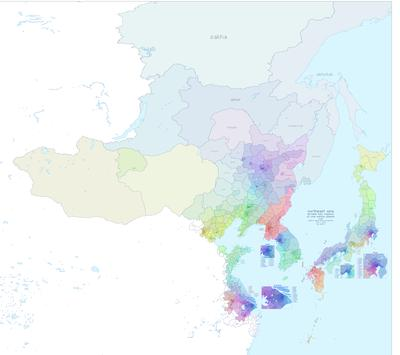
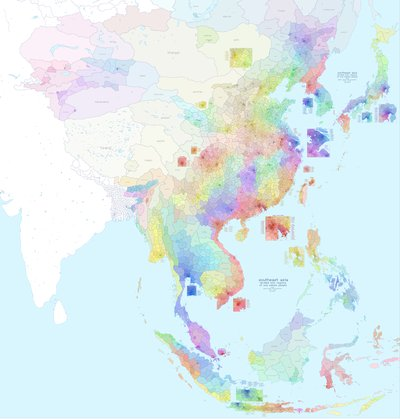
meow

diff --git a/.vscode/permalinks/extension.js b/.vscode/permalinks/extension.js
@@ -1,0 +1,119 @@
+// Suggests page URLs after `](/` or `href="/`, and underlines internal links
+// that don't go to any page. Pages are found by their `permalink:` front matter.
+const vscode = require('vscode');
+const fs = require('fs');
+const path = require('path');
+
+const FRONT_MATTER = /^---\r?\n([\s\S]*?)\r?\n---/;
+const LINK = /\]\(([^)\s]+)[^)]*\)|href=["']([^"']+)["']/g;
+const SKIP = '{**/_*/**,**/.*/**,**/node_modules/**,**/vendor/**}';
+
+let pages = new Map(); // url -> { title, file }
+let diagnostics;
+
+function frontMatter(text) {
+  const m = FRONT_MATTER.exec(text);
+  if (!m) return {};
+  const get = key => {
+    const r = new RegExp('^' + key + ':\\s*(.+)$', 'm').exec(m[1]);
+    return r ? r[1].trim().replace(/^["']|["']$/g, '') : undefined;
+  };
+  return { permalink: get('permalink'), title: get('title') };
+}
+
+function normalise(url) {
+  url = url.split('#')[0].split('?')[0];
+  if (url.endsWith('.html')) url = url.slice(0, -5);
+  if (url.endsWith('/index')) url = url.slice(0, -5);
+  return url.endsWith('/') ? url : url + '/';
+}
+
+function root() {
+  const folder = vscode.workspace.workspaceFolders && vscode.workspace.workspaceFolders[0];
+  return folder ? folder.uri.fsPath : undefined;
+}
+
+async function scan() {
+  const found = new Map();
+  const files = await vscode.workspace.findFiles('**/*.{md,html}', SKIP);
+  for (const uri of files) {
+    let text;
+    try { text = fs.readFileSync(uri.fsPath, 'utf8'); } catch { continue; }
+    const fm = frontMatter(text);
+    const rel = path.relative(root(), uri.fsPath).split(path.sep).join('/');
+    let url = fm.permalink;
+    if (!url && rel.endsWith('.html')) url = '/' + rel;
+    if (!url) continue;
+    found.set(normalise(url), { title: fm.title || rel, file: rel });
+  }
+  pages = found;
+  vscode.workspace.textDocuments.forEach(check);
+}
+
+// A link is fine if a page has that permalink, or a real file sits at that path.
+function exists(url) {
+  if (pages.has(normalise(url))) return true;
+  const clean = decodeURIComponent(url.split('#')[0].split('?')[0]);
+  const onDisk = path.join(root(), clean);
+  return fs.existsSync(onDisk) && (!fs.statSync(onDisk).isDirectory() || fs.existsSync(path.join(onDisk, 'index.html')));
+}
+
+function check(doc) {
+  // Only markdown: html pages carry scripts whose strings look like links.
+  if (doc.languageId !== 'markdown' || !root()) return;
+  const text = doc.getText();
+  const own = frontMatter(text).permalink;
+  const found = [];
+  for (const m of text.matchAll(LINK)) {
+    const target = m[1] || m[2];
+    if (/^([a-z]+:|#|\{)/i.test(target)) continue;
+    const absolute = target.startsWith('/');
+    if (!absolute && !own) continue;
+    const url = absolute ? target : new URL(target, 'http://x' + normalise(own)).pathname;
+    const start = doc.positionAt(m.index + m[0].indexOf(target));
+    const range = new vscode.Range(start, start.translate(0, target.length));
+    if (!exists(url)) {
+      found.push(new vscode.Diagnostic(range, `no page at ${url}`, vscode.DiagnosticSeverity.Error));
+    } else if (absolute && !path.extname(target.split('#')[0]) && !target.split('#')[0].endsWith('/')) {
+      found.push(new vscode.Diagnostic(range, 'missing trailing slash', vscode.DiagnosticSeverity.Warning));
+    }
+  }
+  diagnostics.set(doc.uri, found);
+}
+
+const completions = {
+  provideCompletionItems(doc, pos) {
+    const before = doc.lineAt(pos).text.slice(0, pos.character);
+    const m = /(?:\]\(|href=["'])(\/[^)\s"']*)$/.exec(before);
+    if (!m) return;
+    const range = new vscode.Range(pos.translate(0, -m[1].length), pos);
+    return [...pages].map(([url, page]) => {
+      const item = new vscode.CompletionItem(url, vscode.CompletionItemKind.File);
+      item.detail = page.title;
+      item.documentation = page.file;
+      item.range = range;
+      return item;
+    });
+  },
+};
+
+function activate(context) {
+  diagnostics = vscode.languages.createDiagnosticCollection('permalinks');
+  let timer;
+  const rescan = () => { clearTimeout(timer); timer = setTimeout(scan, 300); };
+  const watcher = vscode.workspace.createFileSystemWatcher('**/*.{md,html}');
+  context.subscriptions.push(
+    diagnostics,
+    watcher,
+    watcher.onDidCreate(rescan),
+    watcher.onDidDelete(rescan),
+    vscode.workspace.onDidSaveTextDocument(rescan),
+    vscode.workspace.onDidOpenTextDocument(check),
+    vscode.workspace.onDidChangeTextDocument(e => check(e.document)),
+    vscode.workspace.onDidCloseTextDocument(doc => diagnostics.delete(doc.uri)),
+    vscode.languages.registerCompletionItemProvider(['markdown', 'html'], completions, '/'),
+  );
+  scan();
+}
+
+module.exports = { activate };

diff --git a/pages/projects/projects.md b/pages/projects/projects.md
@@ -8,16 +8,16 @@ permalink: /projects/
 
 - maps
     - interactive 
-        - <a href="/languagedots" data-thumb="/assets/thumbs/languagedots.png">language dot map</a> 
-        - <a href="/ancestrydotsna" data-thumb="/assets/thumbs/ancestrydots.png">ancestry dot map</a> (<a href="/ancestrydotsna">usa + canada</a>) (<a href="/ancestrydots">usa</a>) (<a href="/assets/posters/ancestrydots.png" data-thumb="/assets/thumbs/posters/ancestrydots.jpg">poster</a>)
-        - <a href="/religiondots" data-thumb="/assets/thumbs/religiondots.png">religion dot map</a>
-        - <a href="/japanrail" data-thumb="/assets/thumbs/japanrail.png">japan rail</a> (posters: <a href="/assets/posters/japanrail.png" data-thumb="/assets/thumbs/posters/japanrail.jpg">english</a>, <a href="/assets/posters/japanrail_ja.png" data-thumb="/assets/thumbs/posters/japanrail_ja.jpg">japanese</a>)
-        - <a href="/korearail" data-thumb="">korea rail</a>
-        - <a href="/noritetsu">noritetsu</a> (in progress)
-        - <a href="/nycriders" data-thumb="/assets/thumbs/nycriders.png">nyc riders</a> (<a href="/assets/posters/nycriders.png" data-thumb="/assets/thumbs/posters/nycriders.jpg">poster</a>)
-        - <a href="/londonriders">london riders</a>
-        - <a href="/flights" data-thumb="/assets/thumbs/flights.jpg">flight traffic</a>
-        - <a href="/cityhistory" data-thumb="/assets/thumbs/cityhistory.png">city history</a>
+        - <a href="/languagedots/" data-thumb="/assets/thumbs/languagedots.png">language dot map</a> 
+        - <a href="/ancestrydotsna/" data-thumb="/assets/thumbs/ancestrydots.png">ancestry dot map</a> (<a href="/ancestrydotsna/">usa + canada</a>) (<a href="/ancestrydots/">usa</a>) (<a href="/assets/posters/ancestrydots.png" data-thumb="/assets/thumbs/posters/ancestrydots.jpg">poster</a>)
+        - <a href="/religiondots/" data-thumb="/assets/thumbs/religiondots.png">religion dot map</a>
+        - <a href="/japanrail/" data-thumb="/assets/thumbs/japanrail.png">japan rail</a> (posters: <a href="/assets/posters/japanrail.png" data-thumb="/assets/thumbs/posters/japanrail.jpg">english</a>, <a href="/assets/posters/japanrail_ja.png" data-thumb="/assets/thumbs/posters/japanrail_ja.jpg">japanese</a>)
+        - <a href="/korearail/" data-thumb="">korea rail</a>
+        - <a href="/noritetsu/">noritetsu</a> (in progress)
+        - <a href="/nycriders/" data-thumb="/assets/thumbs/nycriders.png">nyc riders</a> (<a href="/assets/posters/nycriders.png" data-thumb="/assets/thumbs/posters/nycriders.jpg">poster</a>)
+        - <a href="/londonriders/">london riders</a>
+        - <a href="/flights/" data-thumb="/assets/thumbs/flights.jpg">flight traffic</a>
+        - <a href="/cityhistory/" data-thumb="/assets/thumbs/cityhistory.png">city history</a>
         - <a href="https://graffiti.anita.garden/">graffiti nyc</a>
     - equal population maps
         - <a href="/asia1mloc/" data-thumb="/assets/thumbs/maps/asia1mloc.jpg">asia in regions of 1 million people</a> (in progress)
@@ -40,7 +40,7 @@ permalink: /projects/
     - (if you'd like to support my map making, you can donate [here](https://ko-fi.com/anitamaps)!)<br><br>
 
 - games
-    - <a href="/circles" data-thumb="/assets/thumbs/citycircles.png">city circles quiz</a>
+    - <a href="/circles/" data-thumb="/assets/thumbs/citycircles.png">city circles quiz</a>
     - <a href="/assets/guessthecity.html" data-thumb="/assets/thumbs/guessthecity.png">guess the city</a>
     - [bluebs](https://circularsquare.github.io/bluebs/)
     - [shonei](/shonei/) 

diff --git a/pages/thoughts/apocalypse.md b/pages/thoughts/apocalypse.md
@@ -1,0 +1,20 @@
+---
+layout: page
+title: apocalypse
+permalink: /thoughts/apocalypse/
+---
+
+apocalypse is something [aloe](/friends/aloe/) taught me. 
+
+in a dusty gray corolla, we listened to orchestras and choruses. we also listened to a man speaking about the end of the world, just one year away. when he heard this, aloe usually seemed to be at peace. but he would lecture me as well on what was about to happen. most things don't matter when the world is about to end. it seems like the most prudent thing would be to guess about how it might go down. so that's what we did.
+
+the time came and went. i was slightly surprised that nothing happened.
+
+as i grew into my rebellious phase, i looked back and saw this as folly. and as so many youth do, i converted to [momentum](/thoughts/momentum/). the acquisition of [knowledge](/thoughts/) and [fame](/thoughts/beingseen/) would be my new god, everlasting. buddhism would also play a side role as something that i and all of my [friends](/friends/) thought was cool.
+
+[recent](/thoughts/ai/) events have brought back these old thoughts of apocalypse. (or is it just that i'm older? all changes of mind can plausibly be attributed to changes in hormones, i kinda believe..) i find myself looking for these memories i tried to throw away. 
+
+[chrysanthemum](/friends/chrysanthemum/) once told me that chinese people were not worried about apocalypse. that doom is a uniquely western, christian concept. this made me feel a bit bad because christianity is parochial, insane, opium. and buddhism is woke, practical, [japanese](/anime/). 
+
+so is apocalypse real? or am i just getting [old](/thoughts/temperature/)? 
+

diff --git a/pages/friends/strawberrytree.md b/pages/friends/strawberrytree.md
@@ -10,7 +10,7 @@ the fruits turn from yellow to red as they ripen. they have a nice tangy flavor.
 
 he is vibrant. he is doing research somewhere in [al alta](/places/lakta/). he donates 60% of his income to the company he works at. he is abundant in faith. i admire it. 
 
-he believes that he is in the center of the world. in a perfect world, we would all believe such a thing. in a natural world. it is only the tragedy of [streams](/thoughts/upstream/) that makes it otherwise, and this is the root of much sadness... the more time that passes, the more clear it becomes that he is at the top of the world too. i trust him very much, because of how often he has proved me wrong.
+he believes that he is in the center of the world. in a perfect world, we would all believe such a thing. in a natural world. it is only the tragedy of [streams](/thoughts/trancin/) that makes it otherwise, and this is the root of much sadness... the more time that passes, the more clear it becomes that he is at the top of the world too. i trust him very much, because of how often he has proved me wrong.
 
 when i'm alone with you i feel in motion, light. briefly, your aspiration goes through me and i can use it out of my own mouth. i wish i could see you more often...
 

diff --git a/pages/thoughts/bass.md b/pages/thoughts/bass.md
@@ -1,0 +1,16 @@
+---
+layout: page
+title: bass
+permalink: /thoughts/bass/
+---
+
+i like to sing. [unfortunately](/thoughts/reasons/) i have a bass voice.
+
+in college, i did a cappella. i enjoyed this quite a bit, because in a cappella, bass is not actually a human role. it can be more accurately described as "base". the goal of a base is to sound as much like a table as possible. so that the others can stand on it and be heard better.
+
+so i sang base, which i liked. in college, i found it difficult to rely on anyone, as the hot [sanba](/places/sanba/) air seems to have made most people into flowers. needing stability, i could bring it myself when i sang base. best was when i sang base with [azalea](/friends/azalea). it felt like flying. but i was not the one flying. it would end, and i would return to my room, and be stuck in the mud.
+
+i have also sung base with some of my more chaotic friends. it feels like i am accessing something that others wouldn't be able to. i feel special. we click. i am a flexible base. 
+
+at the end of the day, a base is not [beautiful](/thoughts/beauty/).
+

diff --git a/pages/friends/aloe.md b/pages/friends/aloe.md
@@ -10,6 +10,8 @@ aloe is from a small village in [fulan](/places/fulan/) where they grow rice and
 
 aloe can speak to animals, especially birds. when he whistles it's usually too loud for birds though, and it scares them away, but if they're far enough away it doesn't seem as loud to them. in his home in [jornor](/places/jornor/), he has many chickens and [bunnies](/anita/bunnies/) and a big peacock, which has taught the chickens to fly. he has also caught many animals and interacted with them. he caught a hawk as it was eating his chickens, which apparently has precise projectile poop. 
 
+aloe has always been very afraid of the [end of the world](/thoughts/apocalypse/)
+
 aloe was an electrical engineer. he had a big box of wires and diodes and lights and solder. he later started working with software. he tried to teach me how to code, but he used C. when he tried to explain what a public static void was, it just scared me away.
 
 aloe is [beautiful](/thoughts/beauty/) and not [normal](/thoughts/normalness/).

diff --git a/pages/thoughts/ai.md b/pages/thoughts/ai.md
@@ -4,9 +4,11 @@ title: ai
 permalink: /thoughts/ai/
 ---
 
+i use ai for a lot of my projects.
+
 i've been talking a lot with [chrysanthemum](/friends/chrysanthemum/) lately about loss of work and the associated loss of purpose.
 
-i do worry that we will all die soon. or at least be forced to [upload](/thoughts/fidelity/) to utilitarian ends. if i ask ai themselves, they comfort me with arguments that i've heard before from [strawberry tree](/friends/strawberrytree/), but i guess their motive is questionable.
+i do worry that we will all [die](/thoughts/apocalypse/) soon. or at least be forced to [upload](/thoughts/fidelity/) to utilitarian ends. if i ask ai themselves, they comfort me with arguments that i've heard before from [strawberry tree](/friends/strawberrytree/), but i guess their motive is questionable.
 
 i hope that whatever comes afterward will be [beautiful](/thoughts/beauty/), and i hope that [my friends](/friends/) and i will be there in some form to see it.
 

diff --git a/pages/thoughts/time.md b/pages/thoughts/time.md
@@ -12,7 +12,7 @@ i have never been buoyant. i can tread water, but only for twenty seconds or so,
 
 do i need to be on the surface? this is a fair question. i have spent fifteen or so years existing already. and maybe my subconscious has already cast its vote. why do i keep bunnies and plants? these are weights. i keep them in order to sink. shouldn't i have stopped treading a while ago? shouln't i let my mind melt?
 
-(i think this is normal. i think this is how a lot of people's relationships with time are. )
+(i think this is [normal](/thoughts/normalness/). i think this is how a lot of people's relationships with time are. )
 
 
 

diff --git a/pages/friends/azalea.md b/pages/friends/azalea.md
@@ -10,7 +10,7 @@ shimmering burning cellophane pink,
 
 in his light i am able to remember that i am real. it makes the world larger and more real. a type of color not representable on computer screens. his voice pierces the clouds in heat and clarity
 
-we went to school in [sanba](/places/lakta/) together, where we sang in small piano rooms. 
+we went to school in [sanba](/places/lakta/) together, where we [sang](/thoughts/bass/) in small piano rooms. 
 
 i'm sorry for being impatient when you were following me. i really regret it. i am so grateful that you let me follow you back today.
 

diff --git a/pages/thoughts/thoughts.md b/pages/thoughts/thoughts.md
@@ -31,3 +31,18 @@ assorted word vomit
 - [being seen](beingseen/)
 - [language](language/)
 - [achievement](achievement/)
+- [apocalypse](apocalypse/)
+{: #thought-list}
+
+<script>
+// Shuffle the thoughts on every visit. The first item (lists) stays on top.
+(function () {
+  const list = document.getElementById('thought-list');
+  const items = [...list.children].slice(1);
+  for (let i = items.length - 1; i > 0; i--) {
+    const j = Math.floor(Math.random() * (i + 1));
+    [items[i], items[j]] = [items[j], items[i]];
+  }
+  list.append(...items);
+})();
+</script>

diff --git a/pages/places/lakta.md b/pages/places/lakta.md
@@ -12,4 +12,4 @@ i was born here, in a town in a clearing by the water. there's a big school on t
 
 [sanba](/places/sanba/) is a dry coastal region of lakta.
 
-al alta is a foggy coastal region of lakta. here, streams flow upward. al alta is [upstream](/thoughts/upstream/) of the world. 
+al alta is a foggy coastal region of lakta. here, streams flow upward. al alta is [upstream](/thoughts/trancins/) of the world. 

diff --git a/pages/thoughts/thoughtsideas.md b/pages/thoughts/thoughtsideas.md
@@ -11,3 +11,4 @@ ideas for future thoughts
 - games
 - incel
 - building / rewarding work
+- creative energy / rewrite code
